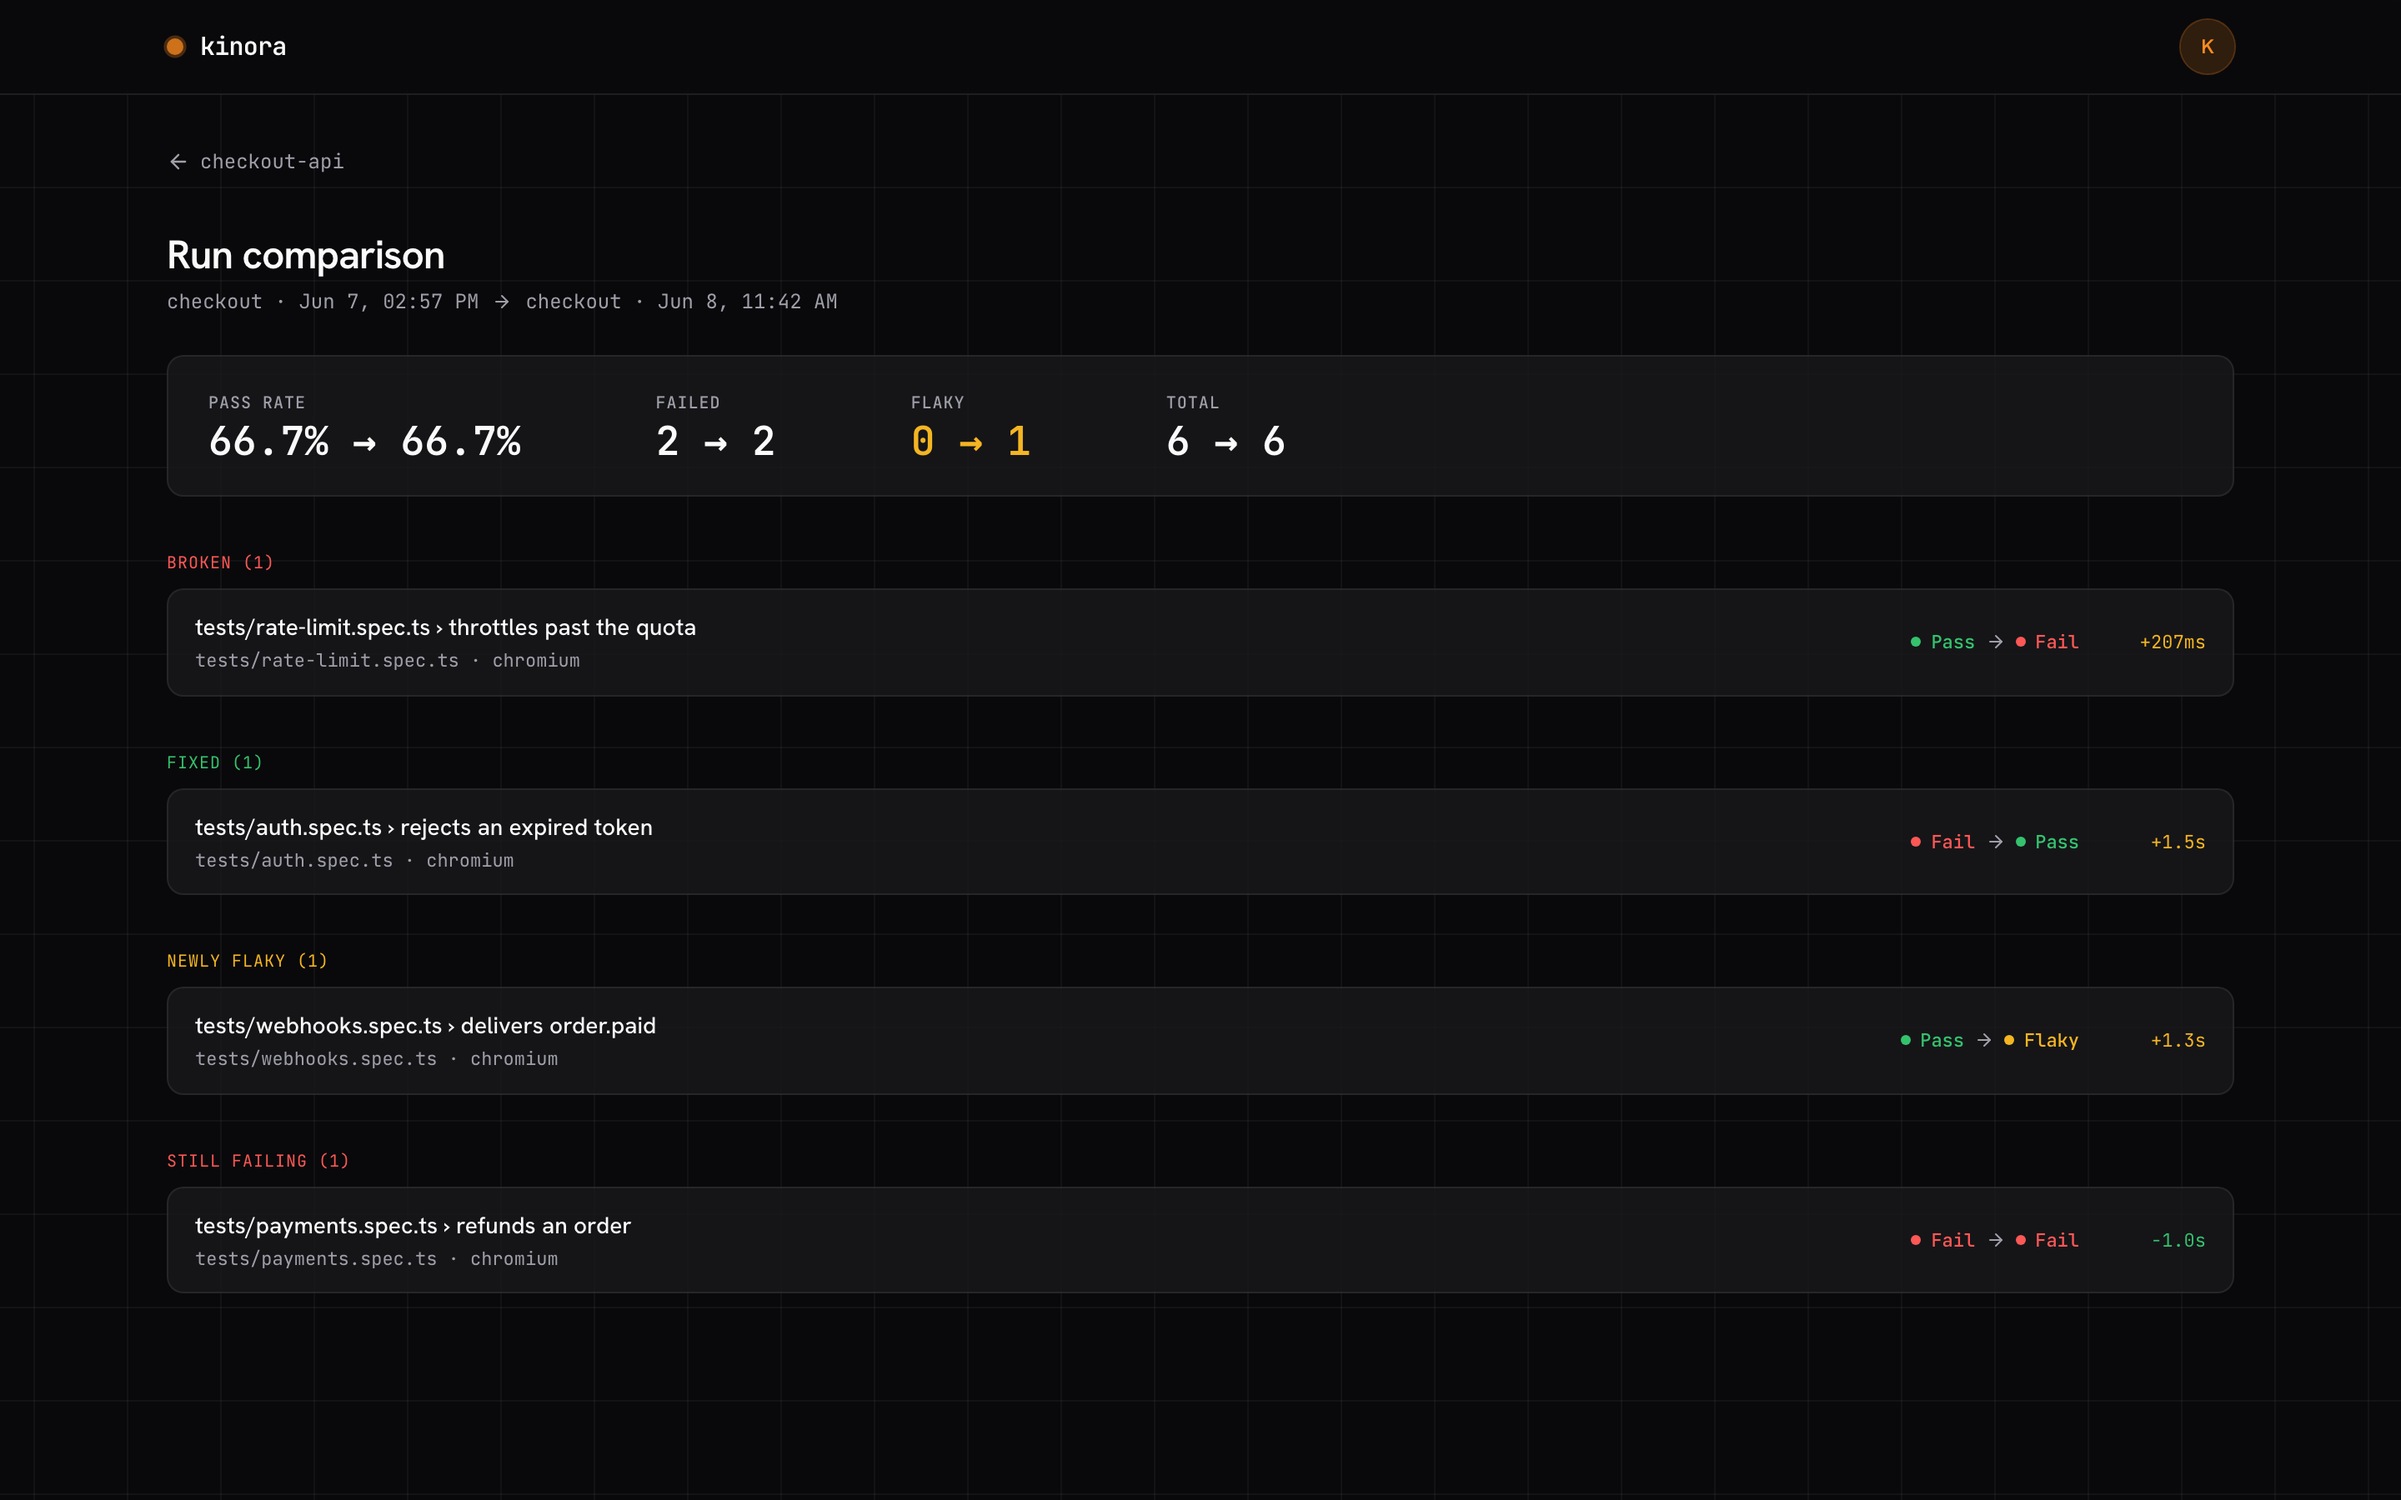
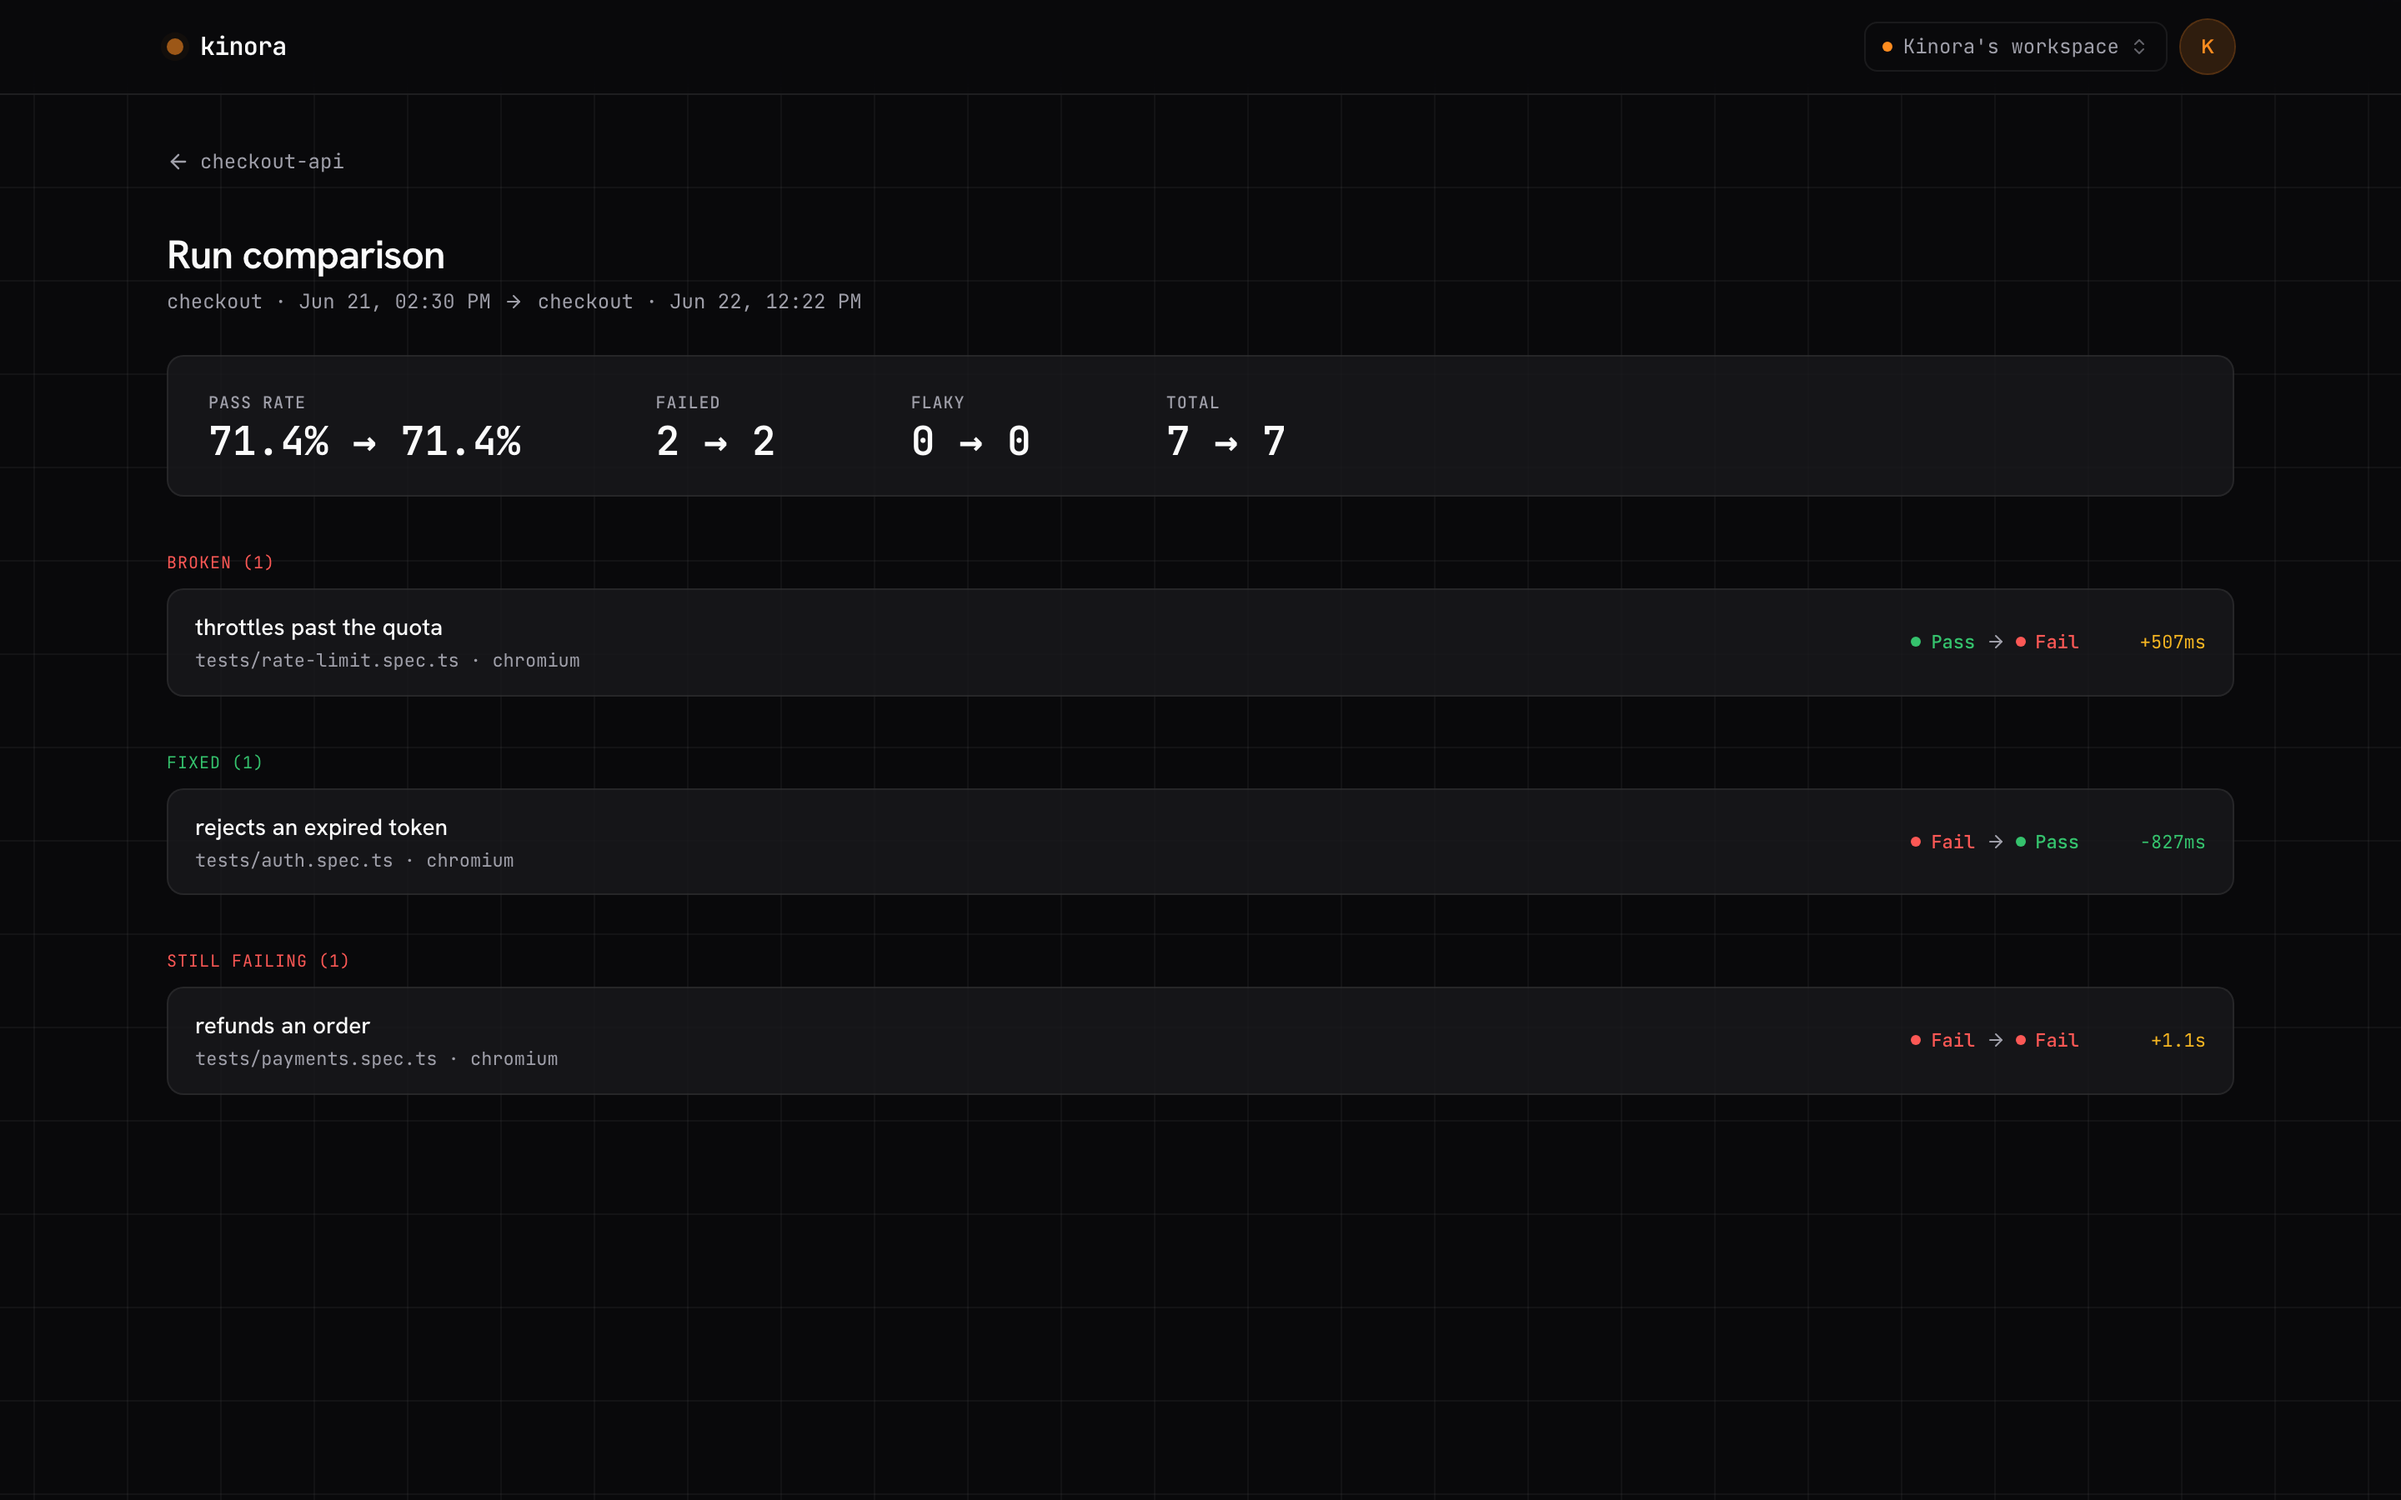
feat: landing better screenshots

diff --git a/packages/server/scripts/seed-market.ts b/packages/server/scripts/seed-market.ts
@@ -35,10 +35,14 @@ const rng = mulberry32(0xC0FFEE)
 const jitter = (n: number): number => Math.floor(rng() * n)
 
 type Status = NormTest['status']
-type Profile = 'solid' | 'mostlyGreen' | 'flakyHistory' | 'newlyFlaky' | 'newlyBroken' | 'newlyFailing' | 'fixed' | 'fixmeSkip'
+type Profile =
+  | 'solid' | 'mostlyGreen' | 'flakyHistory' | 'chronicFlaky' | 'flakyCluster'
+  | 'degrading' | 'outage' | 'recovering' | 'intermittent' | 'chronicFail'
+  | 'newlyFlaky' | 'newlyBroken' | 'newlyFailing' | 'fixed' | 'fixmeSkip'
 
 // Status sequence per profile across run ordinals (0 = oldest, LATEST = newest).
-// prior = ordinals 0..24, recent window = 25..29 (RECENT_WINDOW = 5 in core).
+// Events are spread across the timeline (not just the tail) so per-run pass rates
+// vary -> moving trend lines + multi-colored sparklines. recent window = 25..29.
 function statusAt(profile: Profile, i: number): Status {
   switch (profile) {
     case 'solid':
@@ -47,6 +51,20 @@ function statusAt(profile: Profile, i: number): Status {
       return i === 6 || i === 17 ? 'flaky' : 'expected'
     case 'flakyHistory':
       return i % 7 === 3 ? 'flaky' : 'expected'
+    case 'chronicFlaky': // regular amber dots throughout
+      return i % 5 === 3 ? 'flaky' : 'expected'
+    case 'flakyCluster': // bursts of flakiness
+      return [7, 8, 9, 20, 21].includes(i) ? 'flaky' : 'expected'
+    case 'degrading': // healthy, then unravels in the recent window
+      return i < 22 ? 'expected' : i % 2 === 0 ? 'unexpected' : 'flaky'
+    case 'outage': // a multi-run outage mid-history, then recovers
+      return i >= 11 && i <= 13 ? 'unexpected' : i === 14 ? 'flaky' : 'expected'
+    case 'recovering': // rough early, green ever since (upward trend)
+      return i < 7 ? (i % 2 === 0 ? 'unexpected' : 'flaky') : 'expected'
+    case 'intermittent': // scattered red + amber
+      return [4, 15, 26].includes(i) ? 'unexpected' : [9, 21].includes(i) ? 'flaky' : 'expected'
+    case 'chronicFail': // recurring failures + flakes
+      return i % 7 === 5 ? 'unexpected' : i % 7 === 2 ? 'flaky' : 'expected'
     case 'newlyFlaky':
       return i === LATEST ? 'flaky' : 'expected'
     case 'newlyBroken':
@@ -76,43 +94,87 @@ interface ProjectDef {
 
 const PROJECTS: ProjectDef[] = [
   {
-    // Healthy, but one test just started flaking -> FLAKY badge + newly-flaky signal.
+    // Healthy with real flakiness + one test that just started flaking -> FLAKY badge.
     slug: 'web-app',
     name: 'Web App',
     tests: [
       { file: 'tests/auth.spec.ts', title: 'logs in with valid credentials', profile: 'solid', tags: ['@smoke', '@critical'] },
-      { file: 'tests/auth.spec.ts', title: 'rejects a wrong password', profile: 'solid', tags: ['@smoke'] },
-      { file: 'tests/checkout.spec.ts', title: 'adds an item to the cart', profile: 'mostlyGreen', tags: ['@smoke'] },
-      { file: 'tests/checkout.spec.ts', title: 'completes a purchase', profile: 'flakyHistory', tags: ['@smoke', '@critical'] },
-      { file: 'tests/checkout.spec.ts', title: 'applies a discount code', profile: 'solid' },
+      { file: 'tests/auth.spec.ts', title: 'rejects a wrong password', profile: 'mostlyGreen', tags: ['@smoke'] },
+      { file: 'tests/checkout.spec.ts', title: 'adds an item to the cart', profile: 'chronicFlaky', tags: ['@smoke'] },
+      { file: 'tests/checkout.spec.ts', title: 'completes a purchase', profile: 'flakyCluster', tags: ['@smoke', '@critical'] },
+      { file: 'tests/checkout.spec.ts', title: 'applies a discount code', profile: 'recovering' },
       { file: 'tests/search.spec.ts', title: 'returns relevant results', profile: 'newlyFlaky', tags: ['@critical'] },
       { file: 'tests/search.spec.ts', title: 'handles an empty query', profile: 'solid' },
-      { file: 'tests/dashboard.spec.ts', title: 'renders widgets', profile: 'solid' },
+      { file: 'tests/dashboard.spec.ts', title: 'renders widgets', profile: 'flakyHistory' },
     ],
   },
   {
-    // A regression landed in the last runs -> FAILING badge, newly-broken + a real trace.
+    // A regression + a past outage -> FAILING badge, diverse errors, real traces.
     slug: 'checkout-api',
     name: 'Checkout API',
     tests: [
       { file: 'tests/health.spec.ts', title: 'responds 200 on /healthz', profile: 'solid', tags: ['@smoke'] },
       { file: 'tests/payments.spec.ts', title: 'charges a card', profile: 'mostlyGreen', tags: ['@critical'] },
       { file: 'tests/payments.spec.ts', title: 'refunds an order', profile: 'newlyBroken', tags: ['@critical'] },
-      { file: 'tests/webhooks.spec.ts', title: 'delivers order.paid', profile: 'newlyFlaky' },
+      { file: 'tests/payments.spec.ts', title: 'splits a payment', profile: 'outage', tags: ['@critical'] },
+      { file: 'tests/webhooks.spec.ts', title: 'delivers order.paid', profile: 'intermittent' },
       { file: 'tests/auth.spec.ts', title: 'rejects an expired token', profile: 'fixed', tags: ['@smoke'] },
       { file: 'tests/rate-limit.spec.ts', title: 'throttles past the quota', profile: 'newlyFailing' },
     ],
   },
   {
-    // Stable -> PASSING badge, with an annotated skip to show annotations.
+    // Stable -> PASSING badge, light flakiness + an annotated skip (shows annotations).
     slug: 'marketing-site',
     name: 'Marketing Site',
     tests: [
       { file: 'tests/home.spec.ts', title: 'renders the hero', profile: 'solid', tags: ['@smoke'] },
-      { file: 'tests/home.spec.ts', title: 'newsletter signup works', profile: 'solid' },
-      { file: 'tests/pricing.spec.ts', title: 'toggles annual billing', profile: 'mostlyGreen' },
+      { file: 'tests/home.spec.ts', title: 'newsletter signup works', profile: 'mostlyGreen' },
+      { file: 'tests/pricing.spec.ts', title: 'toggles annual billing', profile: 'chronicFlaky' },
       { file: 'tests/blog.spec.ts', title: 'lists recent posts', profile: 'fixmeSkip' },
-      { file: 'tests/seo.spec.ts', title: 'has correct meta tags', profile: 'solid', tags: ['@smoke'] },
+      { file: 'tests/seo.spec.ts', title: 'has correct meta tags', profile: 'recovering', tags: ['@smoke'] },
+      { file: 'tests/contact.spec.ts', title: 'submits the form', profile: 'solid' },
+    ],
+  },
+  {
+    // Flaky-prone suite -> FLAKY badge, lots of amber across the history.
+    slug: 'mobile-app',
+    name: 'Mobile App',
+    tests: [
+      { file: 'tests/onboarding.spec.ts', title: 'completes the welcome flow', profile: 'flakyCluster', tags: ['@smoke'] },
+      { file: 'tests/onboarding.spec.ts', title: 'requests notification permission', profile: 'chronicFlaky' },
+      { file: 'tests/feed.spec.ts', title: 'pulls to refresh', profile: 'mostlyGreen', tags: ['@critical'] },
+      { file: 'tests/feed.spec.ts', title: 'loads the next page', profile: 'intermittent' },
+      { file: 'tests/profile.spec.ts', title: 'uploads an avatar', profile: 'newlyFlaky' },
+      { file: 'tests/profile.spec.ts', title: 'edits the bio', profile: 'solid' },
+      { file: 'tests/push.spec.ts', title: 'opens a deep link', profile: 'recovering' },
+      { file: 'tests/offline.spec.ts', title: 'queues writes offline', profile: 'flakyHistory', tags: ['@critical'] },
+    ],
+  },
+  {
+    // Recurring failures + a recent regression -> FAILING badge, the reddest history.
+    slug: 'api-gateway',
+    name: 'API Gateway',
+    tests: [
+      { file: 'tests/routing.spec.ts', title: 'routes to the right service', profile: 'solid', tags: ['@smoke'] },
+      { file: 'tests/auth.spec.ts', title: 'validates the JWT', profile: 'mostlyGreen', tags: ['@critical'] },
+      { file: 'tests/ratelimit.spec.ts', title: 'returns 429 over quota', profile: 'chronicFail', tags: ['@critical'] },
+      { file: 'tests/proxy.spec.ts', title: 'streams a large response', profile: 'degrading' },
+      { file: 'tests/proxy.spec.ts', title: 'retries on upstream 503', profile: 'newlyBroken', tags: ['@critical'] },
+      { file: 'tests/cors.spec.ts', title: 'allows preflight requests', profile: 'recovering' },
+      { file: 'tests/metrics.spec.ts', title: 'exposes /metrics', profile: 'solid' },
+    ],
+  },
+  {
+    // Stable internal tool -> PASSING badge, occasional flakiness.
+    slug: 'admin-dashboard',
+    name: 'Admin Dashboard',
+    tests: [
+      { file: 'tests/users.spec.ts', title: 'lists and filters users', profile: 'solid', tags: ['@smoke'] },
+      { file: 'tests/users.spec.ts', title: 'invites a teammate', profile: 'mostlyGreen' },
+      { file: 'tests/billing.spec.ts', title: 'shows the current plan', profile: 'solid', tags: ['@critical'] },
+      { file: 'tests/billing.spec.ts', title: 'exports an invoice', profile: 'chronicFlaky' },
+      { file: 'tests/audit.spec.ts', title: 'records an audit log', profile: 'flakyHistory' },
+      { file: 'tests/reports.spec.ts', title: 'generates a CSV', profile: 'fixmeSkip' },
     ],
   },
 ]
@@ -125,13 +187,22 @@ function annotationsFor(profile: Profile, status: Status): NormTest['annotations
   return []
 }
 
+// A spread of realistic Playwright failures so the run/test/trace views aren't all
+// the same assertion. Picked deterministically per test title (stable across reseeds).
+const ERROR_POOL = [
+  `Error: expect(received).toBe(expected)\n\nExpected: 200\nReceived: 502`,
+  `TimeoutError: locator.click: Timeout 15000ms exceeded.\nCall log:\n  - waiting for getByRole('button', { name: 'Pay now' })\n  - locator resolved to <button disabled>Pay now</button>`,
+  `Error: expect(locator).toBeVisible() failed\n\nLocator: getByText('Order confirmed')\nExpected: visible\nReceived: <element(s) not found>`,
+  `Error: expect(response).toBeOK() failed\n\n  → GET /api/orders/42\n  ← 500 Internal Server Error`,
+  `Error: expect(received).toHaveText(expected)\n\nExpected: "Welcome back"\nReceived: "Session expired"`,
+  `Error: page.goto: net::ERR_CONNECTION_REFUSED\nNavigating to "http://localhost:3000/checkout"`,
+]
+
 function errorsFor(def: TestDef, status: Status): NormTest['errors'] {
   if (status !== 'unexpected')
     return []
-  return [{
-    message: `Error: expect(received).toBe(expected)\n\nExpected: 200\nReceived: 502`,
-    stack: `at ${def.file}:34:18`,
-  }]
+  const h = [...def.title].reduce((a, c) => a + c.charCodeAt(0), 0)
+  return [{ message: ERROR_POOL[h % ERROR_POOL.length], stack: `at ${def.file}:${34 + (h % 20)}:${7 + (h % 12)}` }]
 }
 
 function makeTest(def: TestDef, i: number, line: number): NormTest {
